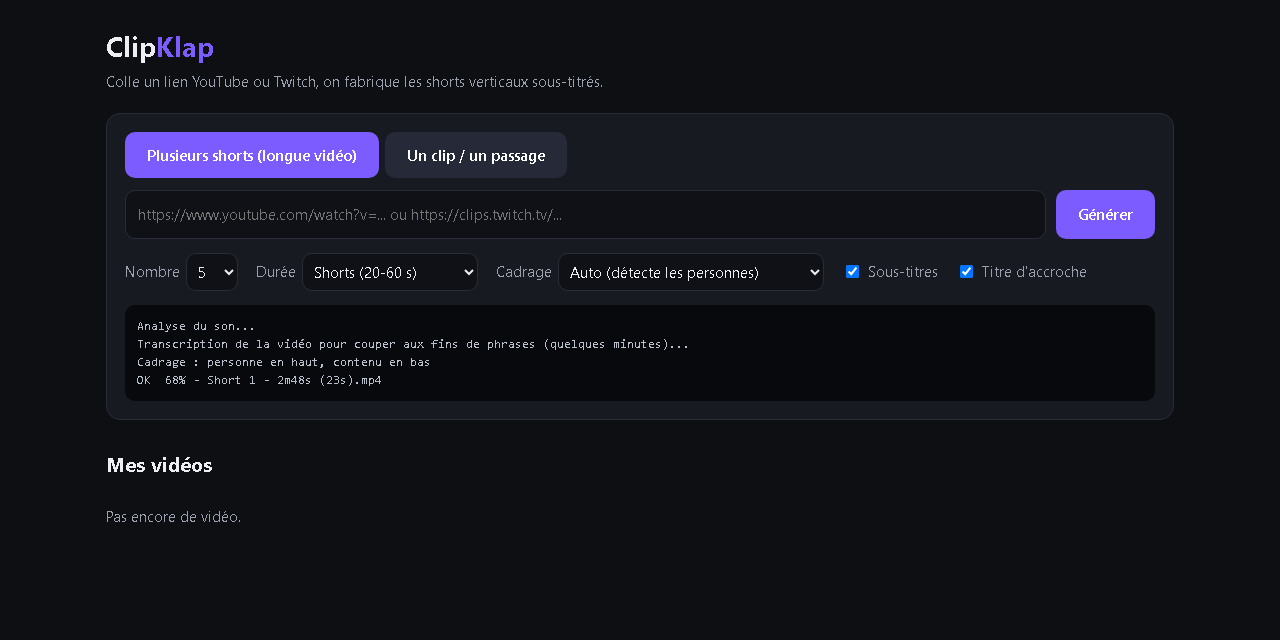
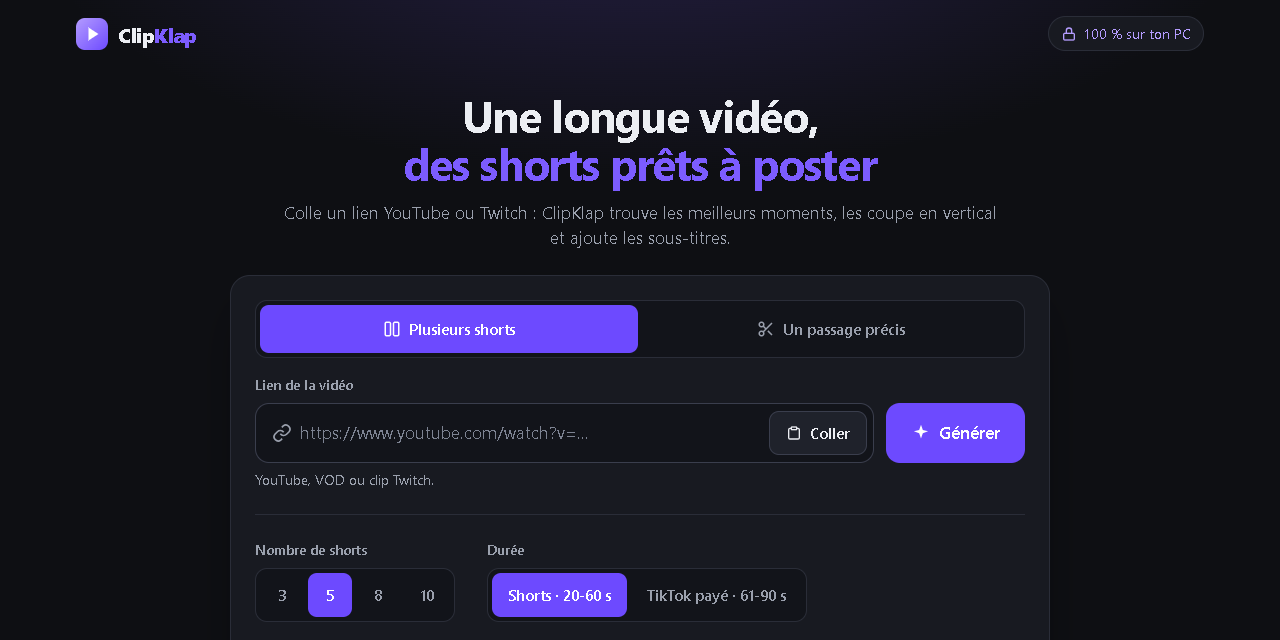
Nouvelle interface : captures et README à jour

diff --git a/README.md b/README.md
@@ -10,8 +10,8 @@
 
 <table>
   <tr>
-    <td align="center"><img src="screenshots/1-ordinateur.png" alt="ClipKlap sur ordinateur : champ pour coller un lien, réglages du nombre de shorts, de la durée et du cadrage, suivi de la fabrication en direct" width="560"><br><b>Sur ordinateur</b></td>
-    <td align="center"><img src="screenshots/2-telephone.png" alt="ClipKlap sur un écran étroit : les mêmes réglages les uns sous les autres" width="200"><br><b>Sur écran étroit</b></td>
+    <td align="center"><img src="screenshots/1-ordinateur.png" alt="ClipKlap sur ordinateur : champ pour coller un lien, réglages du nombre de shorts, de la durée et du cadrage" width="560"><br><b>Sur ordinateur</b></td>
+    <td align="center"><img src="screenshots/2-telephone.png" alt="ClipKlap sur un écran étroit : le bouton Générer passe sous le lien, les réglages les uns sous les autres" width="200"><br><b>Sur écran étroit</b></td>
   </tr>
 </table>
 
@@ -23,7 +23,7 @@
 
 1. **Colle un lien** : une vidéo YouTube, une VOD ou un clip Twitch.
 2. **Choisis** : plusieurs shorts tirés d'une longue vidéo, ou un seul passage (ex. `1:23-1:50`) ; le nombre de shorts ; la durée (20-60 s pour les Shorts, 61-90 s pour TikTok) ; le cadrage ; les sous-titres et le titre d'accroche.
-3. **Clique sur Générer** : tu suis la fabrication en direct, puis tes shorts apparaissent dans la galerie, classés par % de buzz, à regarder, télécharger ou ouvrir dans leur dossier.
+3. **Clique sur Générer** : une barre montre où en est la fabrication, puis tes shorts apparaissent dans la galerie, regroupés par vidéo et triés par % de buzz ou par date, à regarder, télécharger ou ouvrir dans leur dossier.
 
 ---
 
